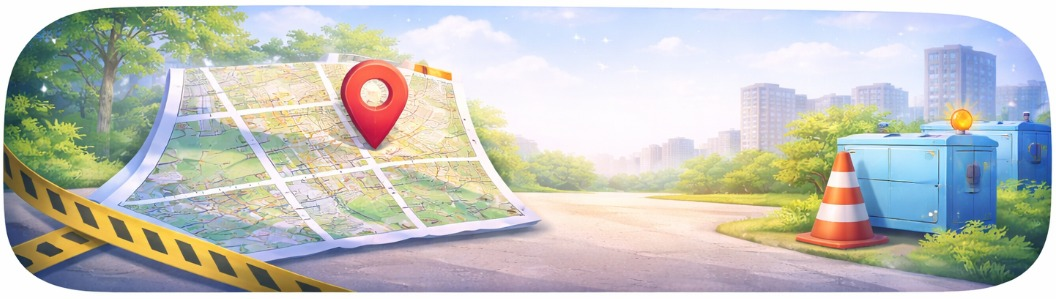
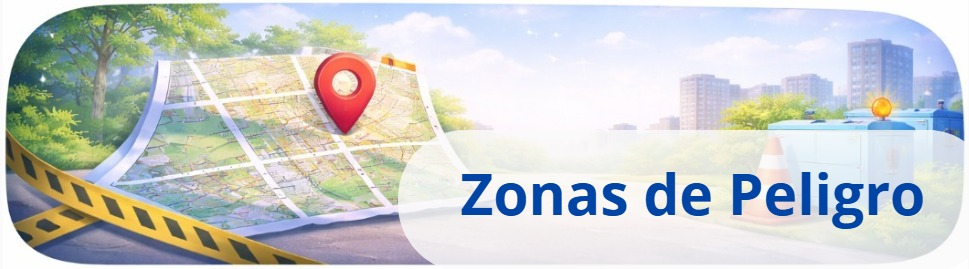
V1.0.2 mEJORA SVISAULES CON ZONAS DE PELIGRO Y SECCIOND EBRIGADA

diff --git a/src/js/dashboard-brigada.js b/src/js/dashboard-brigada.js
@@ -1,4 +1,4 @@
-// Dashboard común para todos los roles
+// Dashboard de Brigada
 document.addEventListener('DOMContentLoaded', function() {
     // Verificar si el usuario está autenticado
     const userId = localStorage.getItem('userId');
@@ -16,12 +16,6 @@ document.addEventListener('DOMContentLoaded', function() {
     const userNameElement = document.getElementById('userName');
     if (userNameElement && userName) {
         userNameElement.textContent = userName;
-    }
-
-    // Mostrar nombre en la tarjeta de bienvenida
-    const welcomeUserName = document.getElementById('welcomeUserName');
-    if (welcomeUserName && userName) {
-        welcomeUserName.textContent = userName;
     }
 
     // Mostrar foto del usuario o iniciales
@@ -63,40 +57,7 @@ document.addEventListener('DOMContentLoaded', function() {
         });
     }
 
-    console.log('Usuario autenticado:', { userId, userName, userRole });
-
-    // Botón de Hablar con IA
-    const hablarIABtn = document.getElementById('hablarIABtn');
-    if (hablarIABtn) {
-        hablarIABtn.addEventListener('click', function() {
-            window.location.href = 'dashboard-ia.html';
-        });
-    }
-
-    // Botón de Tienda
-    const tiendaBtn = document.getElementById('tiendaBtn');
-    if (tiendaBtn) {
-        tiendaBtn.addEventListener('click', function() {
-            alert('Funcionalidad de tienda próximamente');
-        });
-    }
-
-    // Botón de Brigada
-    const brigadaBtn = document.getElementById('brigadaBtn');
-    if (brigadaBtn) {
-        brigadaBtn.addEventListener('click', function() {
-            // Redirigir a la página de brigada
-            window.location.href = 'dashboard-brigada.html';
-        });
-    }
-
-    // Botón de Zonas de Peligro
-    const zonasPeligroBtn = document.getElementById('zonasPeligroBtn');
-    if (zonasPeligroBtn) {
-        zonasPeligroBtn.addEventListener('click', function() {
-            alert('Funcionalidad de zonas de peligro próximamente');
-        });
-    }
+    console.log('Usuario autenticado en Brigada:', { userId, userName, userRole });
 
     // Navegación inferior
     const navItems = document.querySelectorAll('.nav-item');
@@ -115,7 +76,7 @@ document.addEventListener('DOMContentLoaded', function() {
             navItems.forEach(nav => nav.classList.remove('active'));
             this.classList.add('active');
             
-            // Aquí puedes agregar la lógica para cambiar el contenido
+            // Navegación a otras secciones
             console.log('Navegando a:', section);
             cambiarSeccion(section);
         });
@@ -187,8 +148,6 @@ document.addEventListener('DOMContentLoaded', function() {
     };
 
     function cambiarSeccion(seccion) {
-        const content = document.querySelector('.dashboard-content');
-        
         switch(seccion) {
             case 'inicio':
                 // Redirigir al dashboard principal según el rol
@@ -203,27 +162,18 @@ document.addEventListener('DOMContentLoaded', function() {
                 window.location.href = dashboardPage;
                 break;
             case 'brigada':
-                // Redirigir a la página de brigada
-                window.location.href = 'dashboard-brigada.html';
+                // Ya estamos en brigada, no hacer nada
                 break;
             case 'ia':
                 // Redirigir a la página de IA
                 window.location.href = 'dashboard-ia.html';
                 break;
             case 'perfil':
-                if (content) {
-                    content.innerHTML = `
-                        <h1>Mi Perfil</h1>
-                        <p><strong>Nombre:</strong> ${userName}</p>
-                        <p><strong>Rol:</strong> ${userRole}</p>
-                        <p><strong>ID:</strong> ${userId}</p>
-                    `;
-                }
+                // Redirigir a perfil (puedes crear esta página después)
+                alert('Funcionalidad de perfil próximamente');
                 break;
             default:
-                if (content) {
-                    content.innerHTML = '<h1>Sección no encontrada</h1>';
-                }
+                console.log('Sección no encontrada:', seccion);
         }
     }
 });

diff --git a/src/secciones/dashboard-brigada.html b/src/secciones/dashboard-brigada.html
@@ -3,7 +3,7 @@
 <head>
     <meta charset="UTF-8">
     <meta name="viewport" content="width=device-width, initial-scale=1.0">
-    <title>Klasplus - Dashboard Estudiante</title>
+    <title>Klasplus - Brigada</title>
     <link rel="stylesheet" href="../css/dashboard.css">
     <link rel="stylesheet" href="../css/modal.css">
     <link rel="stylesheet" href="https://cdnjs.cloudflare.com/ajax/libs/font-awesome/6.5.1/css/all.min.css">
@@ -36,34 +36,19 @@
             </div>
         </header>
 
-        <!-- Tarjeta de Bienvenida -->
-        <div class="welcome-card">
-            <h1 class="welcome-text">Bienvenid@ <span id="welcomeUserName">Usuario</span></h1>
-            <img src="../img/principal.png" alt="Bienvenida" class="welcome-image">
-            <img src="../img/Hablar_IA.png" alt="Hablar con IA" class="welcome-image-ia" id="hablarIABtn" style="cursor: pointer;">
-            
-            <!-- Contenedor para las imágenes de tienda y brigada -->
-            <div class="bottom-images-container">
-                <img src="../img/tienda.png" alt="Tienda" class="bottom-image" id="tiendaBtn" style="cursor: pointer;">
-                <img src="../img/brigada.png" alt="Brigada" class="bottom-image" id="brigadaBtn" style="cursor: pointer;">
-            </div>
-            
-            <!-- Imagen de zonas de peligro -->
-            <img src="../img/zonas_peligro.png" alt="Zonas de Peligro" class="welcome-image-zones" id="zonasPeligroBtn" style="cursor: pointer;">
-        </div>
-
         <main class="dashboard-content">
-            <!-- Contenido del dashboard -->
+            <h1>Brigada de Seguridad</h1>
+            <p>Información sobre las brigadas de seguridad escolar</p>
         </main>
 
         <!-- Barra de navegación inferior -->
         <nav class="bottom-nav">
-            <button class="nav-item active" data-section="inicio">
+            <button class="nav-item" data-section="inicio">
                 <i class="fa-solid fa-house nav-icon"></i>
                 <span class="nav-label">Inicio</span>
             </button>
 
-            <button class="nav-item" data-section="brigada">
+            <button class="nav-item active" data-section="brigada">
                 <i class="fa-solid fa-user-group nav-icon"></i>
                 <span class="nav-label">Brigada</span>
             </button>
@@ -85,6 +70,6 @@
     </div>
 
     <script src="../js/modal.js"></script>
-    <script src="../js/dashboard.js"></script>
+    <script src="../js/dashboard-brigada.js"></script>
 </body>
 </html>

diff --git a/src/css/dashboard.css b/src/css/dashboard.css
@@ -102,6 +102,20 @@ body {
     box-shadow: 0 6px 20px rgba(0, 71, 179, 0.3);
 }
 
+.welcome-image-zones {
+    width: 100%;
+    height: auto;
+    border-radius: 15px;
+    display: block;
+    margin-top: 20px;
+    transition: transform 0.3s ease, box-shadow 0.3s ease;
+}
+
+.welcome-image-zones:hover {
+    transform: scale(1.02);
+    box-shadow: 0 6px 20px rgba(255, 107, 53, 0.3);
+}
+
 .user-profile {
     display: flex;
     align-items: center;
